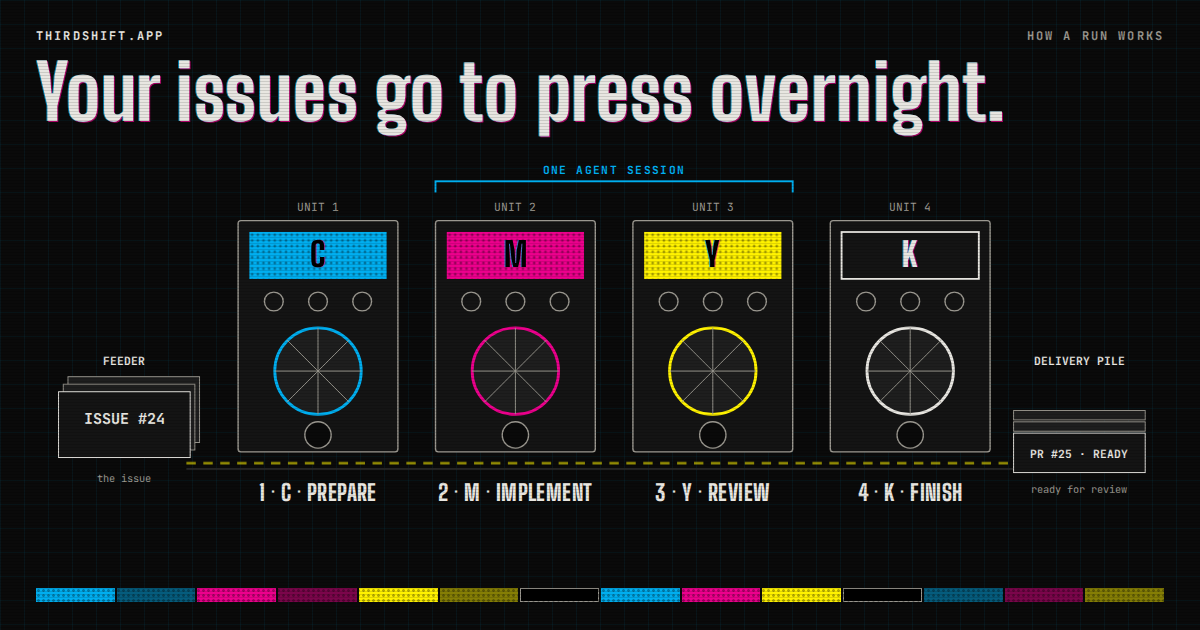
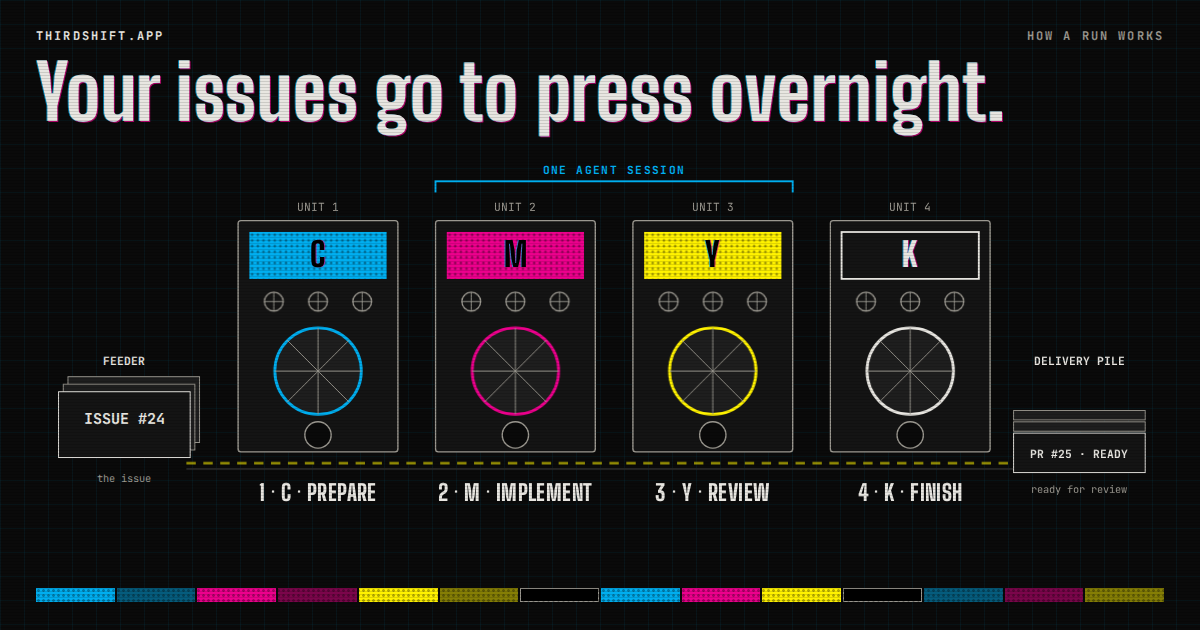
Spin the lit unit's rollers, make units clickable, name the shifts' skills
The shifts section names the skills each shift runs: /grill-with-docs,
/to-spec and /to-tickets by day; /implement, /code-review and /pr by night.
The lit press unit's rollers and drum now turn (Pause stops them), clicking
a unit in the drawing goes to its step, and the Prompts and skills page is
linked from the hero, the third shift, the press section and the footers.

diff --git a/site/index.html b/site/index.html
@@ -51,8 +51,8 @@
         <h1 class="misreg">Your issues go to press overnight.</h1>
         <div class="proof-row">
           <div>
-            <p class="framing">The humans are the <b>day shift</b>: you talk the idea through, write the spec and cut it into issues. The agents work the <b>third shift</b>: give thirdshift an Issue URL and it implements the issue, reviews its own work and opens a pull request that is ready for review by morning.</p>
-            <p class="credit">Built on Matt Pocock's skills: <a href="https://www.aihero.dev/skills">aihero.dev/skills</a> · <a href="https://github.com/mattpocock/skills">mattpocock/skills</a></p>
+            <p class="framing">The humans are the <b>day shift</b>: you talk the idea through, write the spec and cut it into tickets. The agents work the <b>third shift</b>: give thirdshift an Issue URL and it implements the issue, reviews its own work and opens a pull request that is ready for review by morning.</p>
+            <p class="credit">Built on Matt Pocock's skills: <a href="https://www.aihero.dev/skills">aihero.dev/skills</a> · <a href="https://github.com/mattpocock/skills">mattpocock/skills</a>. Read <a href="/prompts/">every prompt and skill thirdshift sends</a>.</p>
           </div>
           <div>
             <p class="eyebrow">Install</p>
@@ -73,11 +73,12 @@
       <div class="sec-head"><p class="eyebrow">Two shifts</p><h2 id="shifts-title">You plan by day. The press runs at night.</h2></div>
       <div class="shifts">
         <div class="shift"><h3>Day shift</h3><p class="who">Humans, with <a href="https://github.com/mattpocock/skills">Matt Pocock's skills</a>, used interactively</p>
-          <ol class="chain"><li>grill</li><li>spec</li><li>issues</li></ol>
-          <p>The human half of the workflow: shaping work into issues the factory can take on, by grilling the idea, writing the spec and cutting it into issues, and reviewing the pull requests it delivers.</p></div>
+          <ol class="chain"><li>/grill-with-docs</li><li>/to-spec</li><li>/to-tickets</li></ol>
+          <p>The human half of the workflow: shaping work into issues the factory can take on, by grilling the idea with <code>/grill-with-docs</code>, writing the spec with <code>/to-spec</code> and cutting it into tickets with <code>/to-tickets</code>, and reviewing the pull requests it delivers.</p></div>
         <div class="shift third"><h3>Third shift</h3><p class="who">Agents, with headless copies of the same skills</p>
-          <ol class="chain"><li>implement</li><li>review</li><li>pull request</li></ol>
-          <p>thirdshift takes one Issue URL per Run. Its Factory skills, adapted to run with no human in the loop, implement the issue, review the work and open a pull request that is ready for review.</p></div>
+          <ol class="chain"><li><a href="/prompts/#skill-implement">/implement</a></li><li><a href="/prompts/#skill-code-review">/code-review</a></li><li><a href="/prompts/#skill-pr">/pr</a></li></ol>
+          <p>thirdshift takes one Issue URL per Run. Its Factory skills, adapted to run with no human in the loop, implement the issue with <code>/implement</code>, review the work with <code>/code-review</code> and open a pull request that is ready for review with <code>/pr</code>.</p>
+          <p class="more"><a href="/prompts/">Read every prompt and skill the agents get →</a></p></div>
       </div>
     </div>
   </section>
@@ -88,7 +89,7 @@
       <div class="sec-head">
         <p class="eyebrow">How a Run works</p>
         <h2 id="press-title" class="misreg">One issue in, one pull request out.</h2>
-        <p class="lede">A Run feeds one issue through four units and delivers a pull request that is ready for review. Units 2 and 3 are one agent session. Under each unit are the lines thirdshift printed on stderr during a real Run: issue <a href="https://github.com/JacobStephens2/thirdshift/issues/24">#24</a>, which produced <a href="https://github.com/JacobStephens2/thirdshift/pull/25">pull request #25</a>.</p>
+        <p class="lede">A Run feeds one issue through four units and delivers a pull request that is ready for review. Units 2 and 3 are one agent session. Under each unit are the lines thirdshift printed on stderr during a real Run: issue <a href="https://github.com/JacobStephens2/thirdshift/issues/24">#24</a>, which produced <a href="https://github.com/JacobStephens2/thirdshift/pull/25">pull request #25</a>. Click a unit to see what it does. Every prompt and skill it sends is on the <a href="/prompts/">Prompts and skills</a> page.</p>
       </div>
 
       <div class="press-track">
@@ -101,8 +102,9 @@
               <desc id="press-svg-desc">Issue #24 goes in at the feeder and passes through four press units: 1 · C · Prepare, 2 · M · Implement, 3 · Y · Review and 4 · K · Finish. A bracket over units M and Y marks them as one agent session. Pull request #25, ready for review, comes out on the delivery pile.</desc>
               <defs>
                 <pattern id="dots" width="6" height="6" patternUnits="userSpaceOnUse"><circle cx="3" cy="3" r="1.5" fill="#000"/></pattern>
-                <g id="rollers" fill="none" stroke="var(--dim)" stroke-width="1.5"><circle cx="38" cy="86" r="10"/><circle cx="85" cy="86" r="10"/><circle cx="132" cy="86" r="10"/></g>
-                <path id="spokes" d="M85 114v92M39 160h92M52 127l66 66M118 127l-66 66" stroke="var(--dim)" stroke-width="1"/>
+                <!-- Centred on the origin, so a spin (styles.css) turns each one about its own centre. -->
+                <g id="roller" fill="none" stroke="var(--dim)" stroke-width="1.5"><circle r="10"/><path d="M0 -10v20M-10 0h20" stroke-width="1"/></g>
+                <path id="spokes" d="M0 -46v92M-46 0h92M-33 -33l66 66M33 -33l-66 66" stroke="var(--dim)" stroke-width="1"/>
               </defs>
 
               <!-- The one agent session: a bracket over M and Y. -->
@@ -127,8 +129,8 @@
                 <rect x="0" y="0" width="170" height="246" rx="3" fill="var(--k2)" stroke="var(--dim)" stroke-width="1.5"/>
                 <rect x="12" y="12" width="146" height="50" fill="var(--c)"/><rect x="12" y="12" width="146" height="50" fill="url(#dots)" opacity=".35"/>
                 <text class="svg-misreg ink-letter" x="85" y="49" text-anchor="middle" fill="#000">C</text>
-                <use href="#rollers"/>
-                <circle cx="85" cy="160" r="46" fill="var(--k3)" stroke="var(--c)" stroke-width="3"/><use href="#spokes"/>
+                <g class="rollers"><g transform="translate(38 86)"><use class="spin" href="#roller"/></g><g transform="translate(85 86)"><use class="spin" href="#roller"/></g><g transform="translate(132 86)"><use class="spin" href="#roller"/></g></g>
+                <circle cx="85" cy="160" r="46" fill="var(--k3)" stroke="var(--c)" stroke-width="3"/><g transform="translate(85 160)"><use class="spin drum" href="#spokes"/></g>
                 <circle cx="85" cy="228" r="14" fill="var(--k)" stroke="var(--dim)" stroke-width="1.5"/>
                 <text x="85" y="-10" text-anchor="middle" font-size="12" fill="var(--dim)">UNIT 1</text>
                 <text class="unit-label" x="85" y="298" text-anchor="middle">1 · C · PREPARE</text>
@@ -137,8 +139,8 @@
                 <rect x="0" y="0" width="170" height="246" rx="3" fill="var(--k2)" stroke="var(--dim)" stroke-width="1.5"/>
                 <rect x="12" y="12" width="146" height="50" fill="var(--m)"/><rect x="12" y="12" width="146" height="50" fill="url(#dots)" opacity=".35"/>
                 <text class="svg-misreg ink-letter" x="85" y="49" text-anchor="middle" fill="#000">M</text>
-                <use href="#rollers"/>
-                <circle cx="85" cy="160" r="46" fill="var(--k3)" stroke="var(--m)" stroke-width="3"/><use href="#spokes"/>
+                <g class="rollers"><g transform="translate(38 86)"><use class="spin" href="#roller"/></g><g transform="translate(85 86)"><use class="spin" href="#roller"/></g><g transform="translate(132 86)"><use class="spin" href="#roller"/></g></g>
+                <circle cx="85" cy="160" r="46" fill="var(--k3)" stroke="var(--m)" stroke-width="3"/><g transform="translate(85 160)"><use class="spin drum" href="#spokes"/></g>
                 <circle cx="85" cy="228" r="14" fill="var(--k)" stroke="var(--dim)" stroke-width="1.5"/>
                 <text x="85" y="-10" text-anchor="middle" font-size="12" fill="var(--dim)">UNIT 2</text>
                 <text class="unit-label" x="85" y="298" text-anchor="middle">2 · M · IMPLEMENT</text>
@@ -147,8 +149,8 @@
                 <rect x="0" y="0" width="170" height="246" rx="3" fill="var(--k2)" stroke="var(--dim)" stroke-width="1.5"/>
                 <rect x="12" y="12" width="146" height="50" fill="var(--y)"/><rect x="12" y="12" width="146" height="50" fill="url(#dots)" opacity=".35"/>
                 <text class="svg-misreg ink-letter" x="85" y="49" text-anchor="middle" fill="#000">Y</text>
-                <use href="#rollers"/>
-                <circle cx="85" cy="160" r="46" fill="var(--k3)" stroke="var(--y)" stroke-width="3"/><use href="#spokes"/>
+                <g class="rollers"><g transform="translate(38 86)"><use class="spin" href="#roller"/></g><g transform="translate(85 86)"><use class="spin" href="#roller"/></g><g transform="translate(132 86)"><use class="spin" href="#roller"/></g></g>
+                <circle cx="85" cy="160" r="46" fill="var(--k3)" stroke="var(--y)" stroke-width="3"/><g transform="translate(85 160)"><use class="spin drum" href="#spokes"/></g>
                 <circle cx="85" cy="228" r="14" fill="var(--k)" stroke="var(--dim)" stroke-width="1.5"/>
                 <text x="85" y="-10" text-anchor="middle" font-size="12" fill="var(--dim)">UNIT 3</text>
                 <text class="unit-label" x="85" y="298" text-anchor="middle">3 · Y · REVIEW</text>
@@ -158,8 +160,8 @@
                 <rect x="0" y="0" width="170" height="246" rx="3" fill="var(--k2)" stroke="var(--dim)" stroke-width="1.5"/>
                 <rect x="12" y="12" width="146" height="50" fill="none" stroke="var(--paper)" stroke-width="2"/>
                 <text class="svg-misreg ink-letter" x="85" y="49" text-anchor="middle" fill="var(--paper)">K</text>
-                <use href="#rollers"/>
-                <circle cx="85" cy="160" r="46" fill="var(--k3)" stroke="var(--paper)" stroke-width="3"/><use href="#spokes"/>
+                <g class="rollers"><g transform="translate(38 86)"><use class="spin" href="#roller"/></g><g transform="translate(85 86)"><use class="spin" href="#roller"/></g><g transform="translate(132 86)"><use class="spin" href="#roller"/></g></g>
+                <circle cx="85" cy="160" r="46" fill="var(--k3)" stroke="var(--paper)" stroke-width="3"/><g transform="translate(85 160)"><use class="spin drum" href="#spokes"/></g>
                 <circle cx="85" cy="228" r="14" fill="var(--k)" stroke="var(--dim)" stroke-width="1.5"/>
                 <text x="85" y="-10" text-anchor="middle" font-size="12" fill="var(--dim)">UNIT 4</text>
                 <text class="unit-label" x="85" y="298" text-anchor="middle">4 · K · FINISH</text>
@@ -194,7 +196,7 @@
             <article class="unit-col ink-m" aria-labelledby="unit-2">
               <h3 id="unit-2"><span class="tag" aria-hidden="true"></span>2 · M · Implement</h3>
               <p>A headless Claude Code session, with the Factory skills loaded, implements the issue in the worktree, test-first where it can, and commits.</p>
-              <ul class="factory-skills" aria-label="Factory skills"><li><a href="/prompts/#skill-implement">implement</a></li><li><a href="/prompts/#skill-tdd">tdd</a></li></ul>
+              <ul class="factory-skills" aria-label="Factory skills"><li><a href="/prompts/#skill-implement">/implement</a></li><li><a href="/prompts/#skill-tdd">/tdd</a></li></ul>
               <ol class="stderr-lines" aria-label="stderr lines from unit 2">
                 <li><span class="prefix">thirdshift:</span> logging the session to /home/jacob/.thirdshift/logs/JacobStephens2-thirdshift-issue-24-20260925T134143Z-implement.jsonl</li>
                 <li><span class="prefix">thirdshift:</span> implement: session started</li>
@@ -214,7 +216,7 @@
             <article class="unit-col ink-y" aria-labelledby="unit-3">
               <h3 id="unit-3"><span class="tag" aria-hidden="true"></span>3 · Y · Review</h3>
               <p>The same session reviews its work against the Base branch, fixes the Standards findings and Spec findings it agrees with, and lists the rest as Unaddressed findings in the pull request body. Then it opens the pull request, ready for review.</p>
-              <ul class="factory-skills" aria-label="Factory skills"><li><a href="/prompts/#skill-code-review">code-review</a></li><li><a href="/prompts/#skill-pr">pr</a></li></ul>
+              <ul class="factory-skills" aria-label="Factory skills"><li><a href="/prompts/#skill-code-review">/code-review</a></li><li><a href="/prompts/#skill-pr">/pr</a></li></ul>
               <ol class="stderr-lines" aria-label="stderr lines from unit 3">
                 <li><span class="prefix">thirdshift:</span> implement: skill thirdshift:code-review</li>
                 <li><span class="prefix">thirdshift:</span> implement: $ git rev-parse main &amp;&amp; git log main..HEAD --oneline &amp;&amp; git diff main...HEAD --stat; ls .agents/skills…</li>
@@ -239,7 +241,7 @@
             <article class="unit-col ink-k" aria-labelledby="unit-4">
               <h3 id="unit-4"><span class="tag" aria-hidden="true"></span>4 · K · Finish</h3>
               <p>thirdshift pushes, checks the pull request, merges the Base branch in and watches CI. A merge conflict or failing CI starts a Repair, at most 3. A Resume can happen in any session and isn't a Repair. The Run ends once the pull request is open, ready, mergeable and passing CI. This Run needed no Repair.</p>
-              <ul class="factory-skills" aria-label="Factory skills"><li><a href="/prompts/#skill-resolving-merge-conflicts">resolving-merge-conflicts</a> <span>in a Repair</span></li></ul>
+              <ul class="factory-skills" aria-label="Factory skills"><li><a href="/prompts/#skill-resolving-merge-conflicts">/resolving-merge-conflicts</a> <span>in a Repair</span></li></ul>
               <ol class="stderr-lines" aria-label="stderr lines from unit 4">
                 <li><span class="prefix">thirdshift:</span> pushing issue-24</li>
                 <li><span class="prefix">thirdshift:</span> checking the PR</li>
@@ -451,6 +453,7 @@
 <footer class="wrap foot">
   <a href="https://github.com/JacobStephens2/thirdshift">GitHub</a>
   <a href="https://github.com/JacobStephens2/thirdshift/releases">Releases</a>
+  <a href="/prompts/">Prompts and skills</a>
   <a href="https://github.com/JacobStephens2/thirdshift/blob/main/LICENSE">MIT License</a>
   <span>Factory skills adapted from <a href="https://github.com/mattpocock/skills">Matt Pocock's skills</a></span>
 </footer>

diff --git a/site/styles.css b/site/styles.css
@@ -196,6 +196,15 @@ body::after { /* scanlines */
 .press.is-stepped .unit-col:not(.lit), .press.is-stepped .unit-col .stderr-lines { display: none; }
 .press.is-stepped .unit-col.lit { animation: step-in .25s ease-out; }
 @keyframes step-in { from { opacity: 0; } }
+/* The lit unit's rollers and drum turn; Pause stops them. Neighbouring rollers turn opposite ways, as they would on a press. */
+.press-svg .spin { animation: spin 1.4s linear infinite paused; }
+.press-svg .rollers > g:nth-child(2) .spin, .press-svg .drum { animation-direction: reverse; }
+.press-svg .drum { animation-duration: 3.2s; }
+.press.is-stepped:not(.is-paused) .press-svg .unit.lit .spin { animation-play-state: running; }
+@keyframes spin { to { transform: rotate(1turn); } }
+/* Clicking a unit goes to it (main.js adds .units-clickable). The step buttons are the keyboard equivalent. */
+.press.units-clickable .press-svg .unit, .press.units-clickable .press-svg .delivery { cursor: pointer; }
+.press.is-stepped .press-svg .unit:not(.lit):hover, .press.is-stepped .press-svg .delivery:not(.lit):hover { opacity: .65; }
 .press-controls { display: flex; flex-wrap: wrap; gap: 8px; }
 .press-controls button, .press-term .pause { font: 700 12px/1 var(--f-mono); letter-spacing: .08em; text-transform: uppercase; cursor: pointer;
   background: transparent; color: var(--paper); border: 1px solid var(--dim); padding: 9px 12px; min-height: 36px; }
@@ -223,6 +232,9 @@ body::after { /* scanlines */
 .chain li { font: 700 13px/1 var(--f-mono); padding: 8px 10px; border: 1px solid var(--dim); }
 .chain li + li::before { content: "→"; margin-right: 8px; color: var(--dim); }
 .shift.third .chain li { border-color: var(--c); }
+.chain a { color: inherit; }
+.chain a:hover { color: var(--nc); }
+.shift code { font-size: .92em; color: var(--paper); white-space: nowrap; }
 
 /* ---------- What comes off the press ---------- */
 .offpress { display: grid; grid-template-columns: repeat(3, minmax(0, 1fr)); gap: 24px; }

diff --git a/site/main.js b/site/main.js
@@ -116,13 +116,23 @@ function stepPressLine(section) {
     if (inBand.size && n !== step) render(n);
   }, { rootMargin: "-45% 0px -45% 0px" });
 
-  // A step button scrolls, instantly, to the middle of that step's marker, so the buttons and scrolling agree.
-  for (const b of stepButtons) {
-    b.addEventListener("click", () => {
-      const n = Number(b.dataset.step);
-      const r = markers[n - 1].getBoundingClientRect();
-      scrollTo({ top: scrollY + r.top + r.height / 2 - innerHeight / 2, behavior: "instant" });
-      render(n);
+  // Going to a step scrolls, instantly, to the middle of that step's marker, so the buttons and scrolling agree.
+  function goTo(n) {
+    const r = markers[n - 1].getBoundingClientRect();
+    scrollTo({ top: scrollY + r.top + r.height / 2 - innerHeight / 2, behavior: "instant" });
+    render(n);
+  }
+
+  for (const b of stepButtons) b.addEventListener("click", () => goTo(Number(b.dataset.step)));
+
+  // Clicking a unit in the drawing goes to its step, or, in the static version, to its column. The delivery pile
+  // is unit 4's output. The step buttons are the keyboard and screen reader equivalent, so the drawing stays an image.
+  section.classList.add("units-clickable");
+  for (const el of [...units, delivery]) {
+    const n = el === delivery ? 4 : Number(el.dataset.unit);
+    el.addEventListener("click", () => {
+      if (step) goTo(n);
+      else cols[n - 1].scrollIntoView({ block: "start" });
     });
   }
 

diff --git a/site/prompts/index.html b/site/prompts/index.html
@@ -715,6 +715,7 @@ SOFTWARE.
 <footer class="wrap foot">
   <a href="https://github.com/JacobStephens2/thirdshift">GitHub</a>
   <a href="https://github.com/JacobStephens2/thirdshift/releases">Releases</a>
+  <a href="/prompts/">Prompts and skills</a>
   <a href="https://github.com/JacobStephens2/thirdshift/blob/main/LICENSE">MIT License</a>
   <span>Factory skills adapted from <a href="https://github.com/mattpocock/skills">Matt Pocock's skills</a></span>
 </footer>
